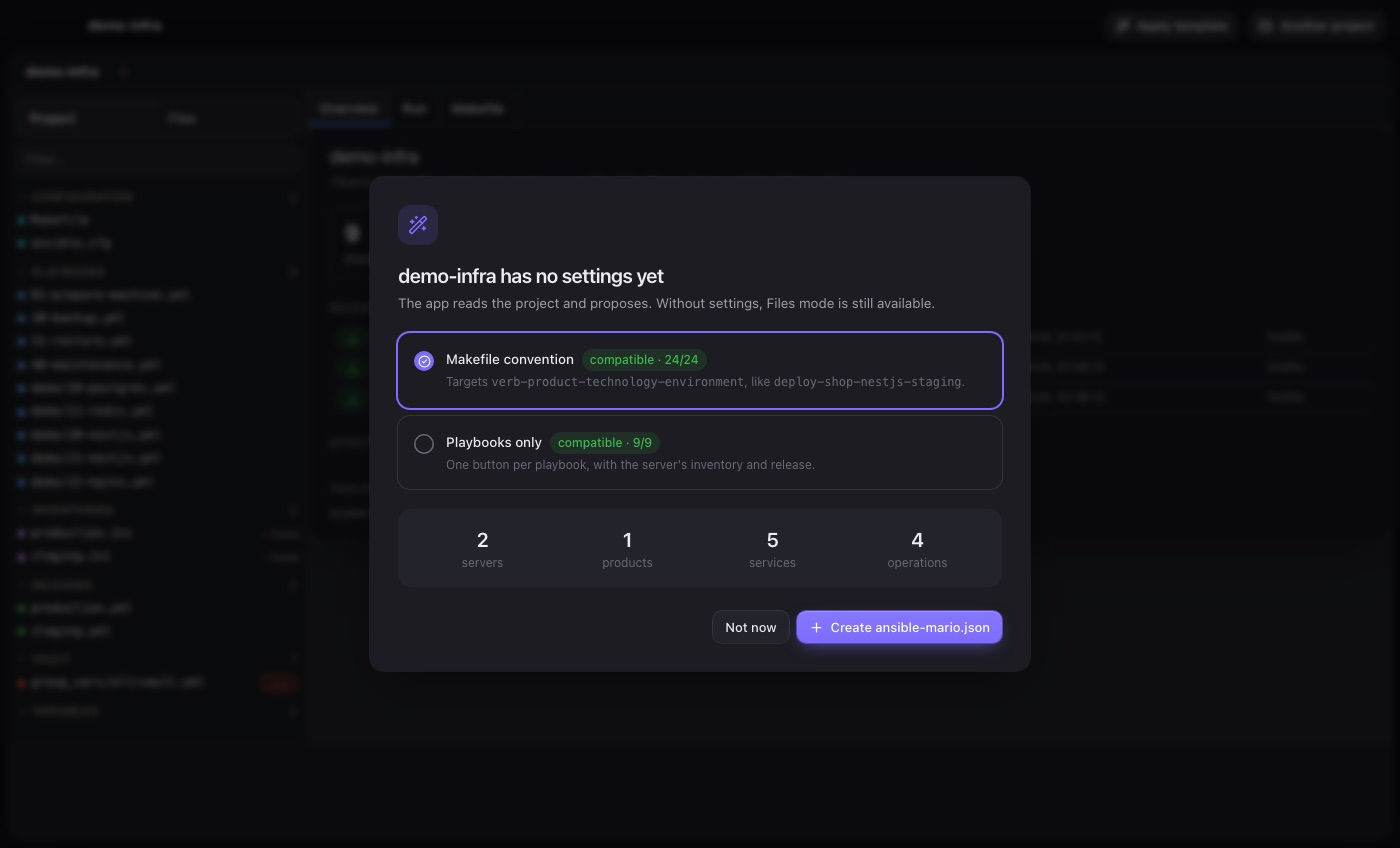
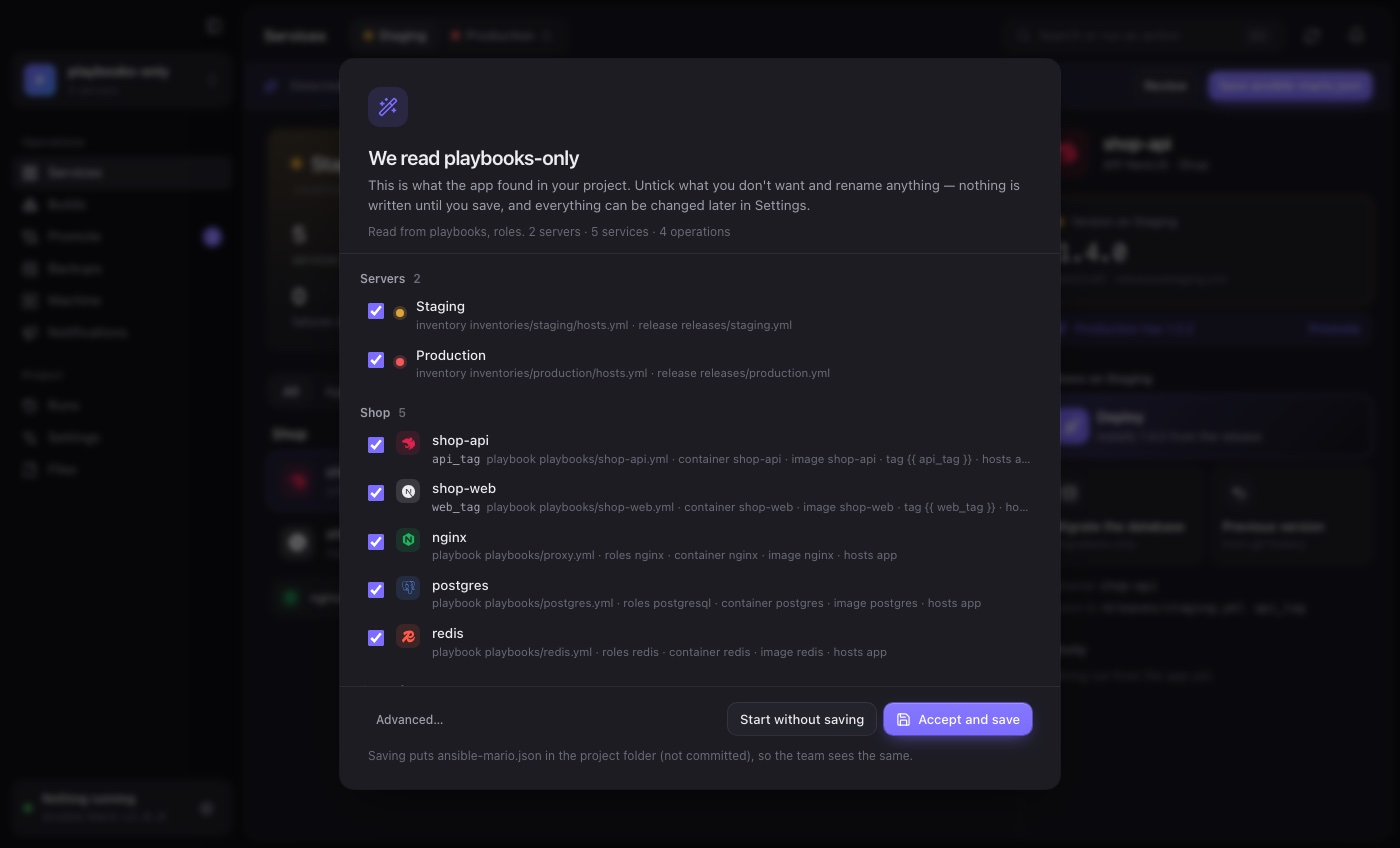
docs: detection from playbooks and several open projects

diff --git a/README.md b/README.md
@@ -41,35 +41,40 @@ Nothing is reimplemented. Every button runs your own Makefile target or playbook
 
 *Light mode. Auto follows the system.*
 
-![Template](docs/screenshots/v2-wizard.jpg)
+![Detection](docs/screenshots/v2-wizard.jpg)
 
-*First open: the app reads the project, says how compatible it is, and proposes an `ansible-mario.json`.*
+*First open: the app reads the project and shows what it found, with where each thing came from. Untick, rename, save.*
 
 ## How it works
 
 ```mermaid
 flowchart LR
-  R[Your infra repo<br/>Makefile · playbooks · releases/*.yml] -->|template| M[ansible-mario.json]
+  R[Your infra repo<br/>Makefile · playbooks · roles · releases/*.yml] -->|detection| M[ansible-mario.json]
   M --> A[Ansible Mario]
   A -->|buttons| C["make deploy-shop-nestjs-staging<br/>ansible-playbook …"]
   C --> H[Hosts]
   A -->|promote / roll back| REL[releases/production.yml<br/>one line per service]
 ```
 
-### Customised by compatibility
+### Detected from your project
 
-The app is driven by an **`ansible-mario.json`** at the root of your infra repo. It is versioned with the project, so the whole team sees the same thing. You don't write it by hand: on first open the app offers a **template** and shows how much of your project it understands:
+The app is driven by an **`ansible-mario.json`** at the root of your infra repo. It is versioned with the project, so the whole team sees the same thing. You don't write it by hand: the app **reads the project and proposes it**, and you review it before anything is saved.
 
-- **Makefile convention.** Targets named `verb-product-technology-environment` (for example `deploy-shop-nestjs-staging` or `run-migrations-shop-nestjs-production`) become products, services and actions:
-  - The environment is the last segment, matched against `inventories/<env>.ini`.
-  - Targets without a product (`deploy-backup-*`, `provision-system-*`, `ping-*`) become operations: Backups, Machine, Observability and Verify.
-  - Version keys are found in `releases/<env>.yml` (`api_tag`, `shop_app_tag`, `api_commit`…).
-- **Playbooks only.** One button per playbook, run with the environment's inventory and release.
-- **Blank.** Configure it in **Settings**, where a form and the JSON stay in sync.
+- **Makefile.** Targets named `verb-product-technology-environment` (for example `deploy-shop-nestjs-staging` or `run-migrations-shop-nestjs-production`) become products, services and actions. Targets without a product (`deploy-backup-*`, `provision-system-*`, `ping-*`) become operations.
+- **Playbooks and roles, by what's inside.** Without a Makefile, or for playbooks no target runs, the app reads each playbook and the roles it uses:
+  - containers (`community.docker.docker_container`, compose, podman) give the service, its image and the variable of its tag (`image: "{{ registry }}/shop-api:{{ api_tag }}"` → image `shop-api`, version key `api_tag`);
+  - names of roles, images and files say what it is: `postgresql`, `redis`, `nginx`/`caddy`/`traefik`, `api`, `web`, `worker`…;
+  - `backup`, `restore`, `provision`, `monitoring`, `check`… become operations (restore and reset are marked destructive); a `site.yml` that only imports others becomes *Deploy everything*; `*-migrate.yml` and `*-seed.yml` attach to their service;
+  - `playbooks/<product>/…` and shared name prefixes (`shop-api`, `shop-web`) group services into products.
+- **Inventories** in `inventories/<env>.ini|yml`, `inventories/<env>/hosts.yml` or a root `hosts` file become servers. Two inventories pointing at the same machine become one server, with the second stack as a product placed on it.
+- **Versions** come from `releases/<env>.yml`; the tag format is guessed from a real value, and a full commit sha with the app's repository next to the infra repo means versions are git commits.
+- **Notifications** from `host_vars/<host>/notify.yml`.
+
+The review lists every server, service, operation and variable with the evidence behind it ("role postgresql in playbooks/db.yml"). Untick what you don't want, rename anything, and **Accept and save**, or start without saving. Later, **Settings → Detect again** shows only what's new since the file was written, and adds it without touching your edits. Under *Advanced* you can still read the project strictly by the Makefile convention, or as one button per playbook.
 
 The schema is in [`schema/v2.json`](schema/v2.json), so editors autocomplete and validate the file. Every field is explained, with a full example, in [`docs/configuration.md`](docs/configuration.md).
 
-**No file yet?** The app doesn't open empty. It reads the project with the most compatible template, opens straight into Services, and shows a bar to **Save ansible-mario.json** when you're ready. Until then nothing is written to the repository.
+**No file yet?** The app doesn't open empty. It opens straight into Services with what it detected, and shows a bar to **Review** or **Save ansible-mario.json** when you're ready. Until then nothing is written to the repository.
 
 What the file describes, and what you can change in **Settings** (or the JSON tab):
 
@@ -88,6 +93,7 @@ What the file describes, and what you can change in **Settings** (or the JSON ta
 
 ## Features
 
+- **Several projects open:** open more than one infra repo and switch from the project menu at the top of the sidebar (or ⌘1…⌘9). Each keeps its page, server and unsaved files; runs keep going in the background, with a dot on the project that has one. The open projects come back when the app restarts.
 - **Servers at the top, products in the sidebar:** each server shows only the products that exist on it.
 - **Services:** one row per app service, with its tech icon and the version on the chosen server, and a status: *Ready to promote*, *Behind*, *Ahead*, *Stable*, *Closed*, *Failed* or *Running*. Postgres, Redis and nginx sit in a compact infra strip.
 - **Inspector:**
@@ -193,16 +199,16 @@ cd src-tauri && cargo test --lib
 ```
 
 What the tests cover:
-- the template parser;
+- the Makefile convention and the playbook detection (on `examples/demo-infra` and `examples/playbooks-only`);
 - release rewrites that keep comments;
 - registry tag matching and tag-format parsing;
 - a real vault round trip;
 - real `ansible-playbook` runs on localhost, including streaming and cancelling.
 
-To check the template against your own repositories, read-only:
+To see what the detection makes of your own repositories, read-only:
 
 ```bash
-ANSIBLE_MARIO_FIXTURES=~/infra/a:~/infra/b cargo test --lib -- --nocapture template::
+ANSIBLE_MARIO_FIXTURES=~/infra/a:~/infra/b cargo test --lib -- --nocapture real_projects
 ```
 
 ## Project structure
@@ -210,7 +216,8 @@ ANSIBLE_MARIO_FIXTURES=~/infra/a:~/infra/b cargo test --lib -- --nocapture templ
 | Path | What is in it |
 | --- | --- |
 | `src-tauri/src/manifest.rs` | The `ansible-mario.json` model, and validation against the Makefile. |
-| `src-tauri/src/template.rs` | The Makefile-convention and playbooks templates, and the compatibility report. |
+| `src-tauri/src/detect.rs` | Detection: reads playbooks, roles and containers, merges with the Makefile, and keeps the evidence for the review. |
+| `src-tauri/src/template.rs` | The Makefile convention, inventories, versions and variables used by the detection. |
 | `src-tauri/src/releases.rs` | Reads and rewrites `releases/*.yml` line by line, keeping comments. |
 | `src-tauri/src/registry.rs` | Registry tags and build details (date, size, OCI labels) with `docker login` credentials; tag-format parsing. |
 | `src-tauri/src/ops.rs` | Maintenance flags from the inventory, and release history and commits from git. |
@@ -223,6 +230,7 @@ ANSIBLE_MARIO_FIXTURES=~/infra/a:~/infra/b cargo test --lib -- --nocapture templ
 | `AGENTS.md` | Notes for coding agents working on this repository. |
 | `.github/workflows/linux-release.yml` | Builds the Linux AppImage and `.deb` for a release tag. |
 | `examples/demo-infra` | A demo project that runs on localhost. |
+| `examples/playbooks-only` | A project with only playbooks and roles, no Makefile, for the detection. |
 
 ## Limitations
 

diff --git a/docs/configuration.md b/docs/configuration.md
@@ -4,8 +4,8 @@ Ansible Mario reads one file at the root of your infra repository: `ansible-mari
 
 You rarely write it from scratch:
 
-- **No file yet?** The app opens the project with the most compatible template, in memory. Use it right away. Press **Save ansible-mario.json** when you're happy with it.
-- **Change anything later** in **Settings**: forms for servers, products, buttons, operations, version sources and variables, plus a JSON tab. **Apply template** rebuilds it from the project.
+- **No file yet?** The app detects it from the project (the Makefile, and the playbooks, roles and containers themselves) and opens with it, in memory. A review shows each item with where it came from: untick, rename, **Accept and save**.
+- **Change anything later** in **Settings**: forms for servers, products, buttons, operations, version sources and variables, plus a JSON tab. **Detect again** proposes only what's new and adds it without touching your edits.
 - **Let an agent do it:** [`skills/ansible-mario-json`](../skills/ansible-mario-json/SKILL.md).
 
 The JSON schema is [`schema/v2.json`](../schema/v2.json). Add `"$schema"` to the file to get autocomplete and validation in your editor:
@@ -21,7 +21,7 @@ npx -y ajv-cli@5.0.0 validate --spec=draft2020 -s schema/v2.json -d ansible-mari
   "$schema": "https://raw.githubusercontent.com/mariocosttaa/ansible-mario/main/schema/v2.json",
   "version": 2,
   "name": "Shop",
-  "template": "makefile-convention",
+  "template": "auto",
 
   // Servers. `id` replaces {env} in targets and is the word typed to confirm protected runs.
   "environments": [
@@ -93,7 +93,7 @@ npx -y ajv-cli@5.0.0 validate --spec=draft2020 -s schema/v2.json -d ansible-mari
 | --- | --- |
 | `version` | Always `2`. |
 | `name` | Shown in the app. |
-| `template` | The template that produced the file (`makefile-convention`, `playbooks`). Informative only. |
+| `template` | How the file was first made: `auto` (detected), `makefile-convention` or `playbooks`. Informative only. |
 | `environments` | The **servers** (below). |
 | `promotion` | `[{ "from", "to" }]`: enables the Promote page and the *Ready to promote* status. |
 | `registry` | `{ "url" }`: the Docker registry used for builds and per-environment tags. Credentials come from `docker login` (config.json or the macOS Keychain) and never go in this file. |

diff --git a/AGENTS.md b/AGENTS.md
@@ -16,16 +16,17 @@ The full field reference is [`docs/configuration.md`](docs/configuration.md).
 
 | Path | What |
 | --- | --- |
-| `src-tauri/src/` | Rust: the manifest model and validation (`manifest.rs`), templates (`template.rs`), release rewrites (`releases.rs`), registry (`registry.rs`), git and inventory reads (`ops.rs`), runs (`runner.rs`), Tauri commands (`lib.rs`). |
+| `src-tauri/src/` | Rust: the manifest model and validation (`manifest.rs`), detection from playbooks and roles (`detect.rs`), the Makefile convention (`template.rs`), release rewrites (`releases.rs`), registry (`registry.rs`), git and inventory reads (`ops.rs`), runs (`runner.rs`), Tauri commands (`lib.rs`). |
 | `src/v2/` | The React app: pages, the deploy dialog, git preferences, and the English/Portuguese strings (`pt.ts`, keyed by the English text). |
 | `src/legacy/` | The v1 editor, now the *Files* page. |
 | `examples/demo-infra` | A demo project that runs against localhost. Use it for screenshots and manual tests. |
+| `examples/playbooks-only` | Playbooks and roles without a Makefile: the detection fixture. |
 
 ```bash
 npm install
 npm run tauri dev                      # run the app
 npx tsc --noEmit -p .                  # type-check the UI
-cd src-tauri && cargo test --lib       # Rust tests (templates, releases, registry parsing, git, vault, runs)
+cd src-tauri && cargo test --lib       # Rust tests (detection, templates, releases, registry parsing, git, vault, runs)
 ```
 
 Rules the code follows:

diff --git a/skills/ansible-mario-json/SKILL.md b/skills/ansible-mario-json/SKILL.md
@@ -9,9 +9,10 @@ description: Write or update the ansible-mario.json of an Ansible project (serve
 Makefile targets and playbooks behind buttons. It reads a single file at the root of the infra repo:
 `ansible-mario.json`. This skill writes that file **from what the repository actually has**.
 
-The app can generate a first version itself (Settings → Apply template). Use this skill when the project
-doesn't follow the Makefile convention, when the template got parts wrong, or to add what it can't guess
-(labels, version sources, variables).
+The app detects a first version itself when a project has no file: from the Makefile convention and
+from the playbooks, roles and containers (Settings → Detect again re-runs it). Use this skill when the
+detection got parts wrong, to group products the way the owner thinks of them, or to add what it can't
+guess (labels, descriptions, version sources, variables).
 
 ## Rules
 
@@ -143,7 +144,7 @@ Settings the app can edit in place, in plain YAML files (one line at column 0) o
   "$schema": "https://raw.githubusercontent.com/mariocosttaa/ansible-mario/main/schema/v2.json",
   "version": 2,
   "name": "Shop",
-  "template": "makefile-convention",
+  "template": "auto",
   "environments": [],
   "promotion": [],
   "registry": { "url": "https://registry.example.com" },
